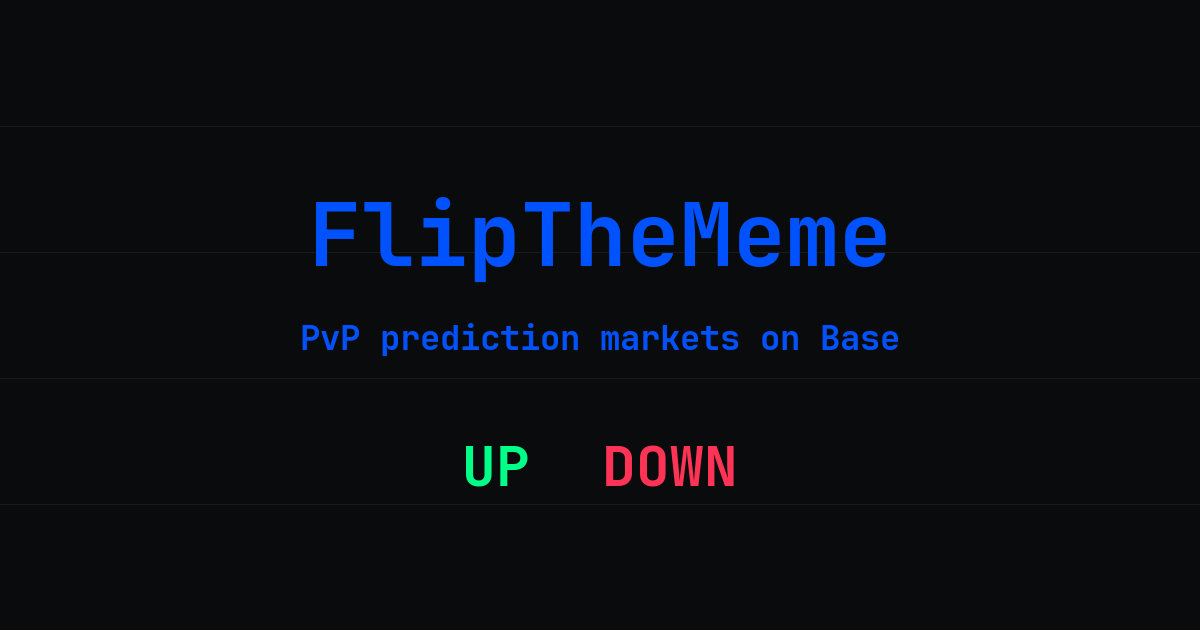
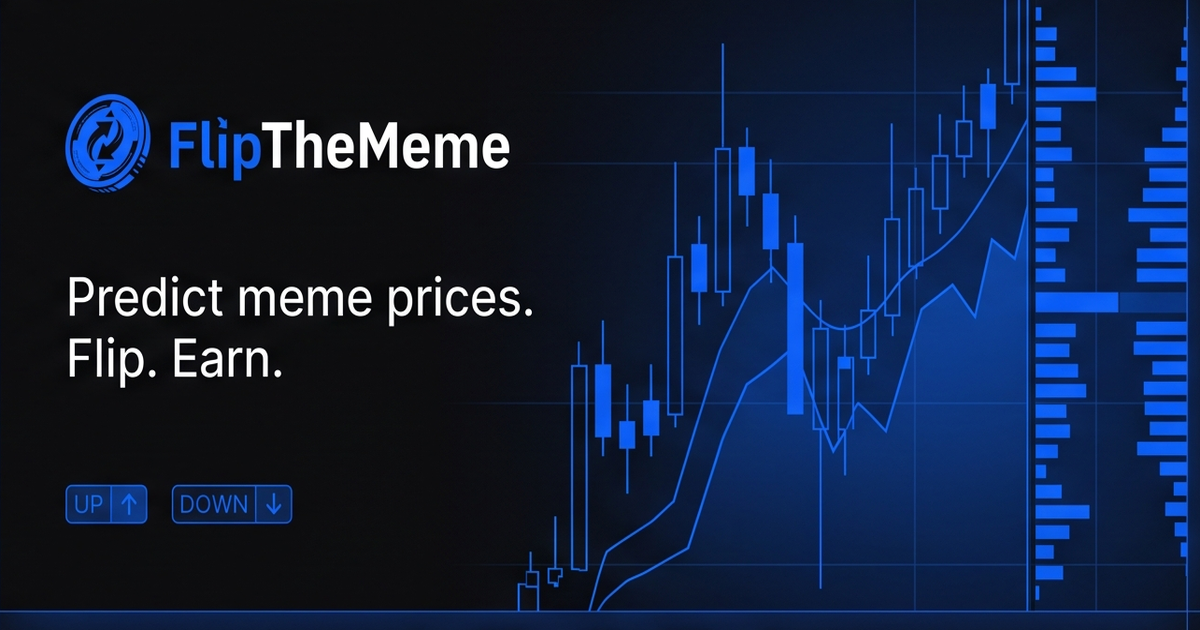
brand: real FlipTheMeme mark/wordmark, replace placeholder app images
Sofia had a mockup made (coin/flip-arrows mark, Base blue, JetBrains Mono)
matching the brief in docs/brand-identity-spec.md. Cropped the individual
deliverables out of that reference sheet — icon.png/icon-512.png (mark,
padded square), splash.png (mark + wordmark), og-cover.png/embed.png
(full 1200x630 composition) — replacing the text-only Pillow placeholders
generated right after the rebrand. Reference sheet kept at
docs/brand/flipthememe-mockup-reference.png for future asset work (e.g.
still need a proper favicon crop and an SVG version of the header mark).

diff --git a/docs/brand-identity-spec.md b/docs/brand-identity-spec.md
@@ -1,0 +1,59 @@
+# FlipTheMeme — ТЗ на вордмарк/лого
+
+Статус: сейчас везде плейсхолдер, сгенерированный скриптом
+`scripts/generate-app-images.py` (Pillow, чёрный фон + текст JetBrains Mono).
+Не финальный дизайн — держит место, чтобы Farcaster/OG-превью не были битыми
+после ребрендинга с MemePred. Закрыть нужно до серьёзного паблика (мейннет,
+CEF-подача, реальный трафик).
+
+## Где используется
+
+| Файл | Размер | Где показывается |
+|---|---|---|
+| `frontend/public/icon.png` | 1024×1024 | favicon, app icon |
+| `frontend/public/icon-512.png` | 512×512 | Farcaster miniapp iconUrl |
+| `frontend/public/splash.png` | 200×200 | splash-экран при загрузке mini-app |
+| `frontend/public/og-cover.png` | 1200×630 | OG-превью (Twitter/Discord/линки) |
+| `frontend/public/embed.png` | 1200×630 | Farcaster frame/miniapp embed-карточка |
+| `frontend/src/components/ui/AppHead.tsx:14` | текст | шапка сайта, `<span className="name">` — сейчас просто текст "flipthememe", не картинка |
+
+## Существующий визуальный язык (держаться этого, не изобретать заново)
+
+- Фон: чёрный `#0a0b0d`
+- Base blue `#0052FF` — основной брендовый цвет (вся типографика/лого)
+- Зелёный `#00ff88` = UP, красный `#ff3355` = DOWN — это единственные два места,
+  где цвет несёт смысл (исход ставки). **Не использовать зелёный/красный
+  ни для чего другого** — в проекте это зарезервированные сигнальные цвета.
+- Шрифт: JetBrains Mono (Bold) — моноширинный, техно-вайб, уже используется
+  во всём интерфейсе, не только в лого.
+- Мотив: свечной график / orderbook (полоски по краям иконки в текущем
+  плейсхолдере — `make_icon()` в generate-app-images.py) — можно развивать
+  дальше или заменить на что-то более узнаваемое под "flip"-концепцию
+  (монетка/переворот, стрелки вверх-вниз).
+
+## Что нужно
+
+1. **Wordmark** — логотип-надпись "FlipTheMeme" (или "Flip The Meme" —
+   на выбор дизайнера, но в коде/доменах пишем слитно). Должен читаться
+   и на чёрном фоне, и потенциально на светлом (шапка сайта сейчас тёмная,
+   но не факт что навсегда).
+2. **Отдельный знак/марк** — то, что раньше было "MP" (сейчас временно
+   заменено на "FM" в плейсхолдере). Нужен нормальный компактный символ,
+   узнаваемый в 16×16 favicon — двух букв может быть недостаточно на таком
+   размере, стоит подумать про чисто графический знак.
+3. Обе версии должны работать в квадратном формате (иконка/сплэш) и в
+   широком 1200×630 (OG/embed, там ещё есть теглайн + UP/DOWN индикатор,
+   см. текущий `og-cover.png`/`embed.png` для компоновки-референса).
+
+## Что НЕ входит в этот ТЗ
+
+- Ончейн-имена NFT/LP-токенов (GenesisNFT/BadgeNFT/LiquidityPool) — отдельная
+  тема, ждёт передеплоя контрактов (Part B, см. память проекта).
+- Артворк самих NFT (Genesis/Badges) — уже описан отдельно в
+  `docs/nft-artwork-spec.md`, не путать с этим файлом.
+
+## Как обновить, когда есть финальный арт
+
+Просто заменить 5 PNG-файлов в `frontend/public/` под теми же именами
+(тот же размер/формат) и передеплоить (`vercel --prod` из `frontend/`) —
+никаких изменений в коде не требуется, все ссылки уже указывают на эти пути.
